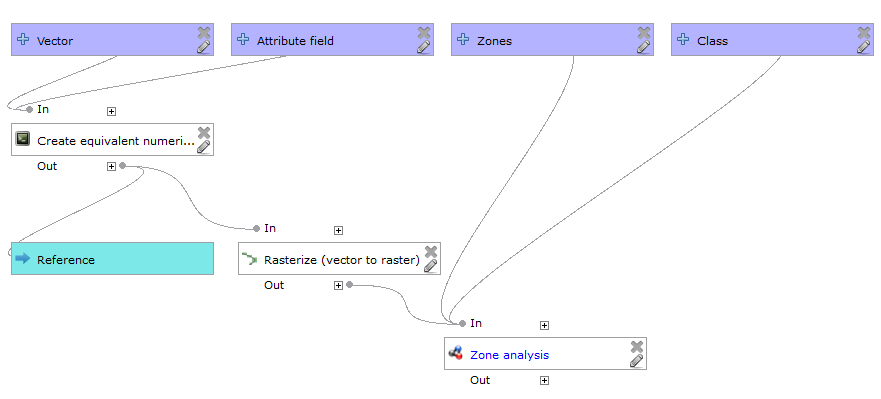
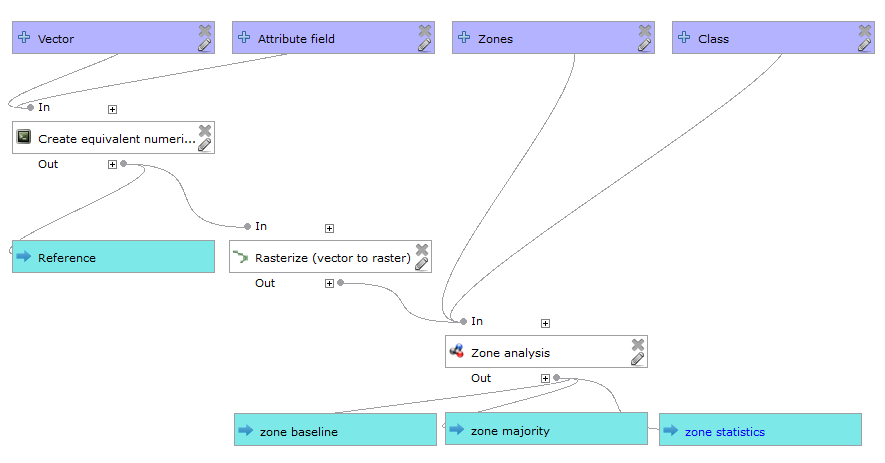
added final QGIS section

diff --git a/workshops/qgis/doc/source/processing/zonal_stats.rst b/workshops/qgis/doc/source/processing/zonal_stats.rst
@@ -3,15 +3,11 @@ Zonal statistics
 
 Now that we have a baseline to work with, we can calculate statistics on the geology types in each of the antelope ranges so that statistical analysis can be done to determine whether there is a correlation between the two variables.
 
-#. Run the **Frequency Analysis** process again, using **Seasonal ranges** and **RANGE** as the vector inputs and **Surficial geology** and band ``1`` as the raster inputs.
+#. Run the **Frequency Analysis** process again, using **Seasonal ranges** and **RANGE** as the vector inputs and **Surficial geology** and band ``1`` as the raster inputs. Set the :guilabel:`Frequency_analysis_layer` to be ``qgis/results/surficial_geology_ranges.shp``.
 
-#. The attribute table for the new **Frequency_analysis_table** will show the geological breakdown for each range. This is useful data, but since we are looking for correlations between ranges geology, we actually want to use an aggregation of geological types for all areas with the same **RANGE** value. In other words, we want to see, for example, if all the yearlong ranges are characterised by a particular geological type.
+#. The attribute table for the new **Frequency_analysis_table** will show the geological breakdown for each range. This is useful data, but since we are looking for correlations between ranges and geology, we actually want to use an aggregation of geological types for all areas with the same **RANGE** value. In other words, we want to see, for example, if all the yearlong ranges are characterised by a particular geological type.
 
-#. Let's keep the layer in our results director: right click and save the layer as ``qgis/results/surficial_geology_ranges.shp``. Make sure to check the :guilabel:`Add saved file to map` option to automatically load this layer into our project.
-
-#. Add a new **Surficial geology** sub-group to the **Results** group.
-
-#. Rename the new layer **Majority**.
+#. Rename the new layer **Surficial geology (majority)** and move it to the **Surficial geology** subgroup.
 
 #. Style the new layer such that a different colour is used for each value of the **MAJ** attribute.
 
@@ -19,9 +15,14 @@ Now that we have a baseline to work with, we can calculate statistics on the geo
 
       Geology types of each seasonal range
 
-#. Delete the layer and table created by the **Frequency Analysis** process.
+#. Delete table created by the **Frequency Analysis** process.
 
-#. Open the **Singleparts to multipart** process to combine all features that share the same value for the **RANGE** attribute. The new features will be multipolygon geometries after this process has run.
+Singleparts to multipart
+------------------------
+
+To get aggregate statistics of the geological breakdown for every range type (rather than every range feature), we will combine all the features that share a single common value for the **RANGE** attribute into multipolygons. Because we have nine different range types, the new layer will only have nine different features, one each for each value of **RANGE**.
+
+#. Open the **Singleparts to multipart** process.
 
 #. Set the :guilabel:`Input layer` to **Seasonal ranges** and :guilabel:`Unique ID field` to **RANGE**.
 
@@ -29,8 +30,16 @@ Now that we have a baseline to work with, we can calculate statistics on the geo
 
 #. Now run the **Frequency Analysis** process again, but this time using the vector input as the new **Output layer**. Set the table output to be ``qgis/results/surficial_geology_ranges.csv``.
 
-#. Rename the output table to **Aggregate**. This layer provides a data analyst with detailed information required to determine whether there is a corrolation between geology types and how antelope use the land during different seasons. Some initial observations are that only the ``CRUWIN`` range is characterised by a geology type other than ``8`` (``ri``), although we can also see that antelope tend not to populate areas with type ``3`` (``Ri``). It is entirely possible that a statistical analysis will not find any coorelation between geology and antelope ranges!
+   .. figure:: images/yearlong_stats.png
+
+      Output layer with ``YRL`` feature information
+
+#. Rename the output table to **Surficial geology (stats)**. This layer provides a data analyst with detailed information required to determine whether there is a corrolation between geology types and how antelope use the land during different seasons. Some initial observations are that only the ``CRUWIN`` range is characterised by a geology type other than ``8`` (``ri``), although we can also see that antelope tend not to populate areas with type ``3`` (``Ri``). It is entirely possible that a statistical analysis will not find any coorelation between geology and antelope ranges!
+
+#. Move **Surficial geology (stats)** to the **Surficial geology** sub-group.
+
+#. Delete the **Frequency_analysis_layer**.
 
 #. Delete the layer that was the output of the **Singleparts to multiparts** process (**Output layer**) since it is no longer needed.
 
-#. Move the two new layers we created in this exercise to the **Surficial geology** group.
+#. Delete the **Suficial geology (raster)** layer since our analysis is complete.

diff --git a/workshops/qgis/doc/source/modeller/continuous.rst b/workshops/qgis/doc/source/modeller/continuous.rst
@@ -1,0 +1,46 @@
+Dicrete and continuous data
+===========================
+
+When performing an analysis on our land cover raster or converted vector data, but we also have the **Digital elevation model** raster that we would like to analyze. Elevation data sets are continuous, so our **Frequency analysis** process, which counts unique raster values, will not be suitable for this particular task. However, QGIS also comes with another algorithm that is intended for use with continuous data; this algorithm provides minimum, maximum, average and median values, all of which are added to the original vector data set. There is no tabular output equivalent to the statistics tables we have been generating, since all this data can be encoded directly into the vector tables.
+
+.. note:: The graphical modeller does not come with the ability to add conditionals, so we will be creating a copy of our current model and modify it to use a different algorithm.
+
+#. Create a new model named **Zone analysis (continuous)** in the **workshops** group.
+
+#. As with our previous model, we will use the **Image**, **Zones** and **Class** inputs.
+
+#. Add a **Zonal statistics** process that uses **Image** and **Zones** to calculate a new **zonal averages** output.
+
+#. Add a **Dissolve** process to create the single area of interest.
+
+#. Add a **Zonal statistics** process that uses **Image** and the output of the **Dissolve** process to calcualte the **zonal baseline** output.
+
+#. Add a **Dissolve** process that uses **Zones** and **Class** as input (make sure to set :guilabel:`Dissolve all` to :kbd:`No`).
+
+   .. note:: You may wonder why we use a **Dissolve** process here whereas our previous models used a **Singleparts to multipart** process. The reason is that the **Zonal statistics** process is more sensitive to problematic geometries than the **Frequency analysis** process; by dissolving the borders, we ensure that the geometries can be handled when calculating the zonal statistics. So why didn't we use **Dissolve** in our other models? **Dissolve** can be slower than **Singleparts to multipart** since it needs to check for overlapping borders and create new geometric shapes when they do, whereas **Singleparts to multiparts** just blindly merges all polygons into multipolygons.
+
+#. Add a **Zonal statistics** process that uses **Image** and the output of the second **Dissolve** process to calculate the **zonal statistics** output.
+
+   .. figure:: images/continuous_model_1.png
+
+      Using **Zonal Statistics**
+
+#. Save the model.
+
+#. Run the new model using **Digital elevation model** as the raster input. As usual save the output files to appropriate locations, rename them and move them to a **Digital elevation model** results group.
+
+   .. figure:: images/layer_list.png
+
+      Digital elevation models in layer list
+
+#. When styling a continuous data set like our averages layer, we no longer want to assign a random colour to each different value. To accomplish this, rather than using :kbd:`Categorized`, we will use :kbd:`Graduated` with the column ``_mean``.
+
+  .. figure:: images/graduated_style.png
+
+     A graduated style 
+
+#. Save the style and preview the new layer showing the average elevation for each of the different antelope ranges.
+
+  .. figure:: images/dem_averages.png
+
+     Elevation averages

diff --git a/workshops/qgis/doc/source/processing/rasterisation.rst b/workshops/qgis/doc/source/processing/rasterisation.rst
@@ -45,7 +45,7 @@ If we proceed with the data configured as it currently is, the **Surficial geolo
 
    .. warning:: There is a **Create equivalent numerical field** process in the :menuselection:`QGIS geoalgorithms --> Vector table tools` cateogry. Functionally, the two will create equivalent output layers; however, only the process in the :menuselection:`Scripts --> Vector` category will create the reference table.
 
-#. Run the process, saving the results to ``qgis\reference\surfical_geology_lookup.csv``.
+#. Run the process, saving the table results to ``qgis\reference\surfical_geology.csv``. We won't save the output vector layer since we'll only be using it temporarily.
 
 #. Run the process **Rasterize** with the inputs **Equivalent_numerical_field_layer** and **NUM_FIELD**. We can keep the default size of 3000 by 3000 pixels. The new raster layer will appear in the layer list.
 
@@ -53,10 +53,10 @@ If we proceed with the data configured as it currently is, the **Surficial geolo
 
       **Suficial geology** after conversion to a raster
 
-#. Clip the new **Output layer** to the **Area of interest** layer using the **Clip raster by mask layer** algorithm from the processing toolbox. Make sure to use a :guilabel:`Nodata` value of :kbd:`-32768` and set :guilabel:`Keep resolution of output raster` to :kbd:`Yes`. Set the output file name to be ``qgis\temp\surfgeol_500k.tif``.
+#. Delete **Equivalent_numerical_field_layer** from the layer list since we no longer need these intermediary layers. We should now have a raster that represents the geology of the land in our are of interest. Clicking on the raster with the identify tool will give us a value which can be referenced in the **Equivalent_numerical_field_table**. 
 
-   .. note:: We are using the ``temp`` directory to store useful files that we will use during the workshop, but which are not actual data sets.
+#. Give our new layers some more descriptive names: **Surficial geology (raster)** for the new raster and **Surficial geology (reference)** for our reference table.
 
-#. Delete **Equivalent_numerical_field_layer** and the non-clipped **Output layer** from the layer list since we no longer need these intermediary layers. We should now have a clipped raster that represents the geology of the land in our are of interest. Clicking on the raster with the identify tool will give us a value which can be referenced in the **Equivalent_numerical_field_table**. 
+.. note::
 
-#. Give our new layers some more descriptive names: **Surficial geology** for the new raster and **Surficial geology (lookup)** for our reference table.
+   You may wish to clip the new raster to the **Area of interest** layer using the **Clip raster by mask layer** algorithm from the processing toolbox. Make sure to use a :guilabel:`Nodata` value of :kbd:`-32768` and set :guilabel:`Keep resolution of output raster` to :kbd:`Yes`.

diff --git a/workshops/qgis/doc/source/processing/statistics.rst b/workshops/qgis/doc/source/processing/statistics.rst
@@ -18,9 +18,7 @@ We will be using a new process named **Frequency Analysis** to calculate the bre
 
 #. Set the :guilabel:`raster` to **Surficial geology**. Since this layer only has a single band, we do not need to change the :guilabel:`band` setting.
 
-#. Keep the default outputs and execute the script.
-
-#. Set the :guilabel:`Frequency_analysis_table` output to be ``qgis\reference\surficial_geology_baseline.csv``.
+#. Set the :guilabel:`Frequency_analysis_table` output to be ``qgis\results\surficial_geology_baseline.csv``.
 
    .. figure:: images/frequency_analysis_aoi.png
 
@@ -30,11 +28,11 @@ We will be using a new process named **Frequency Analysis** to calculate the bre
 
 #. A new layer named **Frequency_analysis_layer** with a single feature will appear in the layer list.
 
-#. Click the feature with the identify tool. The results will show that approximately 35% of the land is covered by geology type ``8``, which can be cross-referenced in our automatically-generated **Surficial geology (RECLASS lookup)** table and identified as type ``ri`` (defined as "residuum mixed with alluvium, eolian, slopewash, grus, and/or bedrock outcrops").
+#. Click the feature with the identify tool. The results will show that approximately 36% of the land is covered by geology type ``9``, which can be cross-referenced in our automatically-generated **Surficial geology (RECLASS lookup)** table and identified as type ``ri`` (defined as "residuum mixed with alluvium, eolian, slopewash, grus, and/or bedrock outcrops").
 
-   .. note:: It is possible that when you run the script, the ``ri`` geology type will be encoded with a different number instead of ``8``.
+   .. note:: It is possible that when you run the script, the ``ri`` geology type will be encoded with a different number instead of ``9``.
 
-#. Open the attribute table for **Frequency_analysis_table**. Here we can see the complete breakdown of the geology into the various types; of note are: ``1`` (``sci``) at 20%; ``3`` (``Ri``) at 12%; and ``5`` (``ai``) at 8%.
+#. Open the attribute table for **Frequency_analysis_table**. Here we can see the complete breakdown of the geology into the various types; of note are: ``1`` (``sci``) at 20%; ``3`` (``Ri``) at 12%; and ``6`` (``ai``) at 8%.
 
    .. note:: QGIS also provides a visual representation of this breakdown if you open the :guilabel:`Histogram` tab on the properties dialog for the **Surficial geology** raster.
 
@@ -44,4 +42,4 @@ We will be using a new process named **Frequency Analysis** to calculate the bre
 
 #. Delete the **Frequency_analysis_layer** from our project.
 
-#. Rename the **Frequency_analysis_table** to **Baseline**.
+#. Rename the **Frequency_analysis_table** to **Surficial geology (baseline)**.

diff --git a/workshops/qgis/doc/source/publishing/plugin.rst b/workshops/qgis/doc/source/publishing/plugin.rst
@@ -1,0 +1,45 @@
+OpenGeo Explorer
+================
+
+When the OpenGeo Explorer is activated, it displays a list of our current layers, groups and styles, and when we connect to GeoServer we additionally get to see all the data that is loaded there. The power of the OpenGeo Explorer is in sharing data between the two: either displaying GeoServer layers in QGIS or uploading QGIS layers and styles to GeoServer.
+
+.. note:: We assume you are using a local copy of OpenGeo Suite (http://localhost:8080/dashboard). If you are running OpenGeo Suite, then please substitute the appropriate URL.
+
+#. Close the processing toolbox.
+
+#. Click :menuselection:`OpenGeo --> OpenGeo Explorer`.
+
+   .. figure:: images/explorer_menu.png
+
+      Activating the OpenGeo Explorer
+
+#. Check the layers and groups in the OpenGeo Explorer list.
+
+   .. figure:: images/qgis_project.png
+
+      QGIS groups in OpenGeo Explorer
+
+#. Click on :menuselection:`GeoServer catalogs`.
+
+#. Click the |add_catalog| icon.
+
+#. Use the default settings in the :guilabel:`Catalog definition` dialog.
+
+   .. note:: You may ignore any warning about an older version of GeoServer.
+
+#. Check the layers in the GeoServer catalog. There should be only two: **Countries of the World** and **States of the USA** (these are the two default layers that come with OpenGeo Suite).
+
+   .. figure:: images/gs_catalog.png
+
+      GeoServer layers
+   
+#. Drag the **States of the USA** layer over to the QGIS layers list. Reorder the **States of the USA** layer so that it is at the bottom of your list of layers.
+
+   .. figure:: images/layer_list_usa.png
+
+      QGIS with a GeoServer layer
+
+   .. note:: The data for a GeoServer layer remains on the server since QGIS uses WFS to fetch the layer.
+
+.. |add_catalog| image:: images/catalog_add.png
+            :class: inline

diff --git a/workshops/qgis/doc/source/publishing/application.rst b/workshops/qgis/doc/source/publishing/application.rst
@@ -1,0 +1,23 @@
+Other applications
+==================
+
+Seasonal ranges
+---------------
+
+The processes and models that we have created are easily applicable to other data on the `Wyoming Game and Fish Department <http://wgfd.wyo.gov/web2011/wildlife-1000819.aspx>`_ website; for example, we might want to run the same processes for other animal ranges, such as bighorn sheep. We only need convert any of the seasonal ranges data sets to the correct CRS and use our **Zona anlysis** models to calculate the majority layer, statistics and a baseline to compare against.
+
+For example, the elk seasonal ranges are perhaps more interesting than antelopes in that there appears to be much tighter corrleation between their land usage and the surficial geology types. We may recall that geology type ``ri`` was the most common in inhabited areas. However, elk land statistics indicate that they avoid these areas and generally prefer the types ``sci`` and ``Ri``.
+
+.. figure:: images/elk.png
+
+   Elk seasonal ranges and surficial geology majorities
+
+General
+-------
+
+Other ideas that show the power of reusable processes could be:
+
+* What is the majority racial component in each state/province?
+* What is the majority landuse in each census unit? Graph against each census unit's Longterm Limiting Illness score (UK Census).
+* What is the majority landuse in each salmon watershed? Graph against each watershed's 10-year salmon population average.
+* Which songbirds prefer fragmented forest?

diff --git a/workshops/qgis/doc/source/modeller/combining.rst b/workshops/qgis/doc/source/modeller/combining.rst
@@ -27,7 +27,7 @@ We have an additional vector layer that contains soil data that we can also use 
 
       Adding a **Rasterize** process to the model
 
-#. Add a new **Zone analysis** process (which is actually the model we created earlier!). The ``Image`` input will be the output of our **Rasterize** process.
+#. Add a new **Zone analysis** process (which is actually the model we created earlier!). The ``Image`` input will be the output of our **Rasterize** process. You will also need to set the output names of the model: ``zonal baseline``, ``zonal majority`` and ``zonal statistics``.
 
    .. figure:: images/vector_model_3.png
 
@@ -35,4 +35,6 @@ We have an additional vector layer that contains soil data that we can also use 
 
 #. Save the model.
 
-#. Run the **Zone analysis (vector)** model using the **Soils** layer as the vector input and **SMU** as the attribute to rasterize with. We will again use :kbd:`Majority`, :kbd:`Aggregate` and :kbd:`Baseline` as outputs to match our previous analyses. Move these results to a new **Soils** sub-group.
+#. Run the **Zone analysis (vector)** model using the **Soils** layer as the vector input and **SMU** as the attribute to rasterize with. We will again use :kbd:`Soils (reference)`, :kbd:`Soils (majority)`, :kbd:`Soils (stats)` and :kbd:`Soils (baseline)` as outputs to match our previous analyses.
+
+#. Move the results to the correct groups and add appropriate styling.

diff --git a/workshops/qgis/doc/source/publishing/upload.rst b/workshops/qgis/doc/source/publishing/upload.rst
@@ -1,0 +1,34 @@
+Uploading layers
+================
+
+Now let's move some data from QGIS over to our GeoServer so that we can share it over the network.
+
+#. Right click :menuselection:`GeoServer catalogs --> Default GeoServer catalog --> GeoServer Workspaces --> New workspaces`.
+
+#. Set the :guilabel:`Workspace name` to :kbd:`antelope` and :guilabel:`URI` to :kbd:`http://localhost:8080/antelope`.
+
+#. Scroll down and right click on :menuselection:`QGIS project --> QGIS Layers --> Seasonal ranges` and select :menuselection:`Publish to GeoServer`.
+
+#. Select the :kbd:`antelope` workspace from the :guilabel:`Publish layer` dialog.
+
+   .. figure:: images/publish_layer.png
+
+      Publishing a layer
+
+#. Click :guilabel:`OK`. The layer and its style will be uploaded to GeoServer.
+
+#. Open Firefox (or another browser) and navigate to http://localhost:8080/geoserver.
+
+#. Click on :guilabel:`Layer Preview`. The **antelope:Seasonal_ranges** layer should be in our list.
+
+   .. figure:: images/geoserver_layers.png
+
+      Layers in GeoServer
+
+#. Click :guilabel:`OK` to launch the preview.
+
+   .. figure:: images/layer_preview.png
+
+      Previewing a layer
+
+We have now published our layer out to GeoServer for distribution over the internet. We can move other layers over to GeoServer to create a webmapping application or other data service for remote scientists to consume.

diff --git a/workshops/qgis/doc/source/processing/running.rst b/workshops/qgis/doc/source/processing/running.rst
@@ -6,7 +6,7 @@ To run a process from the toolbox, you will need to provide inputs, which can be
 Area of interest
 ----------------
 
-Let's revisit the **Dissolve process** and change some of the input parameters to see how they will change the results. Instead of focusing on the herd units, let's create a new layer with just a single feature that shows the area covered by our antelope data. We are doing this because when we enable the **Seasonal ranges** and **Surficial geology** layers, we can see that the ranges layer does not in fact cover the entire state of Wisconsin (for example, areas which are covered by large bodies of water or are mountains of very high elevation are excluded). 
+Let's revisit the **Dissolve process** and change some of the input parameters to see how they will change the results. Instead of focusing on the herd units, let's create a new layer with just a single feature that shows the area covered by our antelope data. We are doing this because when we enable the **Seasonal ranges** and **Surficial geology** layers, we can see that the ranges layer does not in fact cover the entire state of Wyoming (for example, areas which are covered by large bodies of water or are mountains of very high elevation are excluded). 
 
 .. figure:: images/unclipped_surficial_layer.png
 

diff --git a/workshops/qgis/doc/source/processing/groups.rst b/workshops/qgis/doc/source/processing/groups.rst
@@ -13,8 +13,8 @@ To help organise the data we have been adding to our layer list, we can use QGIS
 
 #. Give the new group the name :kbd:`Data`.
 
-#. By dragging and dropping, move the following layers into the **Data** group: **Area of interest**, **Digital elevation model**, **Herd units**, **Land cover**, **Seasonal ranges** and **Surficial geology** (vector). Since the **Surificial geology** raster is a temporary file we'll leave it outside of the **Data** group.
+#. By dragging and dropping, move the following layers into the **Data** group: **Area of interest**, **Digital elevation model**, **Herd units**, **Land cover**, **Seasonal ranges** and **Surficial geology** (vector). Since the **Surificial geology raster** is a temporary file we'll leave it outside of the **Data** group.
 
-#. Create a new group called **Reference** and move the lookup table into it.
+#. Create a new group called **Reference** and move the reference table into it.
 
-#. Create a new group called **Results** and move the remaining table into it.
+#. Create a new group called **Results** and a sub-group called **Surficial geology** and move the remaining **Surficial geology (baseline)** table into it.

diff --git a/workshops/qgis/doc/source/modeller/model.rst b/workshops/qgis/doc/source/modeller/model.rst
@@ -42,7 +42,7 @@ Creating a model
 Multiple outputs
 ----------------
 
-We have already created a functional model that chains two processes together and provides useful output. However, with the exact same inputs, we can add another 'parallel' process to create the equivalent of our **Majority** layer. Remember that for this layer, we only need to run the **Frequency Analysis** algorithm to calculate the most common raster value in each zone.
+We have already created a functional model that chains two processes together and provides useful output. However, with the exact same inputs, we can add another 'parallel' process to create the equivalent of our majority layers. Remember that for this layer, we only need to run the **Frequency Analysis** algorithm to calculate the most common raster value in each zone.
 
 #. Create a **Frequency Analysis** process that takes the **Zones** parameter as the vector layer. Set the layer output to :kbd:`zonal majority`.
 

diff --git a/workshops/qgis/doc/source/basics/raster.rst b/workshops/qgis/doc/source/basics/raster.rst
@@ -5,7 +5,11 @@ Raster data
 
 #. Select the ``dem_90m.zip`` file in the ``qgis\downloads`` directory.
 
-#. Save the file as ``dem_90m.tif`` in the ``qgis\data`` directory with the correct **EPSG:2163** CRS.
+#. Save the file as ``dem_90m.tif`` in the ``qgis\data`` directory with the correct **EPSG:2163** CRS and a resolution of ``300`` by ``300``.
+
+   .. figure:: images/raster_save.png
+
+      Saving a raster
 
 #. Remove the old file and add the new GeoTIFF to the project.
 
@@ -15,7 +19,7 @@ Raster data
 
    .. note:: If the image does not appear, right click on the file in the layer list and select :menuselection:`Set Layer CRS` and make sure that **EPSG:2163** is selected.
 
-#. Repeat the conversion process with ``gaplandcov_WY.img``.
+#. Repeat the conversion process with ``gaplandcov_WY.img`` but leave the resolution as the default.
 
 #. Add the new file to the project.
 
